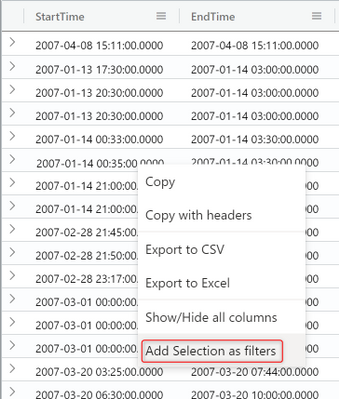
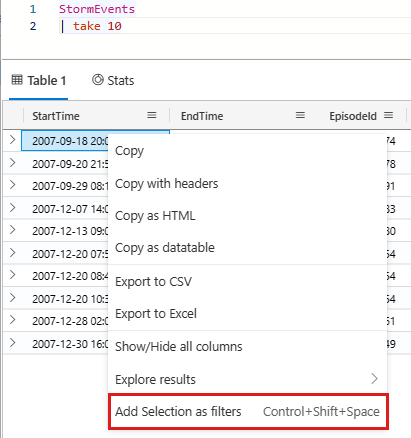
flter to query from grid edits

diff --git a/data-explorer/web-results-grid.md b/data-explorer/web-results-grid.md
@@ -108,17 +108,21 @@ You can use one or more operators to filter the results of a column.
 
 ## Filter to query from grid
 
-Another easy way to filter the grid is to add a filter operator to the query directly from the grid.
+You can add a filter operator to the query directly from the grid.
 
-1. Select a cell with content you wish to create a query filter for.
+1. Select a cell with content for which you want to create a query filter.
 
-1. Right-click to open the cell actions menu. Select **Add selection as filter**.
+1. Right-click to open the cell actions menu. Select **Add selection as filters**.
 
     :::image type="content" source="media/web-query-data/add-selection-filter.png" alt-text="Screenshot of a dropdown menu with the Add selection as filter option to query directly from the grid.":::
 
-1. A query clause will be added to your query in the query editor:
+1. A query clause will be added to your query in the query editor. For example, the query shown in the previous screenshot will become the following query.
 
-    :::image type="content" source="media/web-query-data/add-query-from-filter.png" alt-text="Screenshot of the query editor showing query clause added from filtering on the grid in Azure Data Explorer web U I.":::
+    ```kusto
+    StormEvents
+    | take 10
+    | where StartTime == datetime(2007-09-18T20:00:00Z)
+    ```
 
 ## Pivot
 
